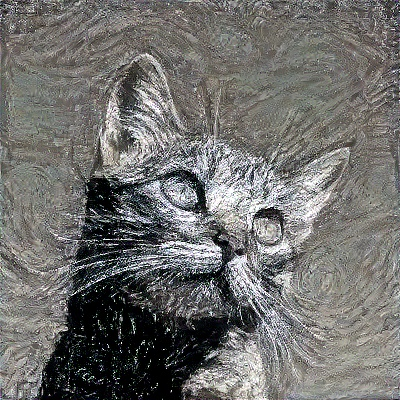
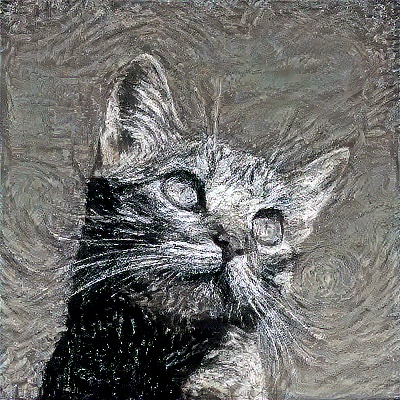
Finished YUV pre-processing for style representation

diff --git a/NST.py b/NST.py
@@ -17,6 +17,7 @@ def load_image(img_path,target_shape="None"):
     if not os.path.exists(img_path):
         raise Exception(f'Path not found: {img_path}')
     img = cv.imread(img_path)[:, :, ::-1]                   # convert BGR to RGB when reading
+    cv.imwrite('data/output-images/output.jpg', img)
     if target_shape is not None:
         if isinstance(target_shape, int) and target_shape != -1:
             current_height, current_width = img.shape[:2]
@@ -41,48 +42,46 @@ def prepare_img(img_path, target_shape, device):
     img = transform(img).to(device).unsqueeze(0)
     return img
 
-def rgb2yuv(rgb_img):
-    # rgb2yuv_filter = torch.tensor(
-    #     [[[[0.299, -0.169, 0.499],
-    #        [0.587, -0.331, -0.418],
-    #        [0.114, 0.499, -0.0813]]]])
-    rgb2yuv_filter = torch.tensor(
-        [[[[0.299, 0.587, 0.114],
-           [-0.169, -0.331, 0.499],
-           [0.499, -0.418, -0.0813]]]]).reshape(3, 3, 1, 1)
-    rgb2yuv_bias = torch.tensor([0., 0.5, 0.5])
+def prepare_style_img(style_img_path, content_img_path, device, target_shape="None"):
+    if not os.path.exists(style_img_path):
+        raise Exception(f'Path for style image not found: {style_img_path}')
+    if not os.path.exists(style_img_path):
+        raise Exception(f'Path for content image not found: {content_img_path}')
+    img = cv.imread(style_img_path)[:, :, ::-1]  # convert BGR to RGB when reading
+    content_img = cv.imread(content_img_path)[:, :, ::-1]
+    img = cv.resize(img, content_img.shape[1::-1])
 
-    temp = torch.nn.functional.conv2d(rgb_img, rgb2yuv_filter, bias=rgb2yuv_bias)
-    return temp
+    # YUV handling
+    style_yuv = cv.cvtColor(img, cv.COLOR_RGB2YUV)
+    content_yuv = cv.cvtColor(content_img, cv.COLOR_RGB2YUV)
 
-def yuv2rgb(yuv_img):
-    yuv_img = torch.mul(yuv_img, 255)
-    yuv2rgb_filter = torch.tensor(
-        [[[[1., 0., 1.40199995],
-           [1., -0.34413999, -0.71414],
-           [1., 1.77199996, 0.]]]]).reshape(3, 3, 1, 1)
-    yuv2rgb_bias = torch.tensor([-179.45599365, 135.45983887, -226.81599426])
+    combined_yuv = style_yuv.copy()
+    combined_yuv[:,:,1] = content_yuv[:,:,1]
+    combined_yuv[:,:,2] = content_yuv[:,:,2]
+    img = cv.cvtColor(combined_yuv, cv.COLOR_YUV2RGB)
 
-    temp = torch.nn.functional.conv2d(yuv_img, yuv2rgb_filter, bias=yuv2rgb_bias)
-    temp = torch.maximum(temp, tf.zeros(temp.get_shape(), dtype=torch.float32))
-    temp = torch.minimum(temp, torch.mul(torch.ones(temp.get_shape(), dtype=torch.float32), 255))
-    temp = torch.div(temp, 255)
-    return temp
+    # cv.imwrite('data/output-images/output.jpg', img)
 
-def prepare_style_image(style_img, content_img):
-    grayscale2rgb = transforms.Lambda(lambda x: x.repeat(3, 1, 1) if x.size(0)==1 else x)
+    # Load image handling
+    if target_shape is not None:
+        if isinstance(target_shape, int) and target_shape != -1:
+            current_height, current_width = img.shape[:2]
+            new_height = target_shape
+            new_width = int(current_width * (new_height / current_height))
+            img = cv.resize(img, (new_width, new_height), interpolation=cv.INTER_CUBIC)
+        else:
+            img = cv.resize(img, (target_shape[1], target_shape[0]), interpolation=cv.INTER_CUBIC)
+    img = img.astype(np.float32)
+    img /= 255.0
 
-    style_grayscale = transforms.functional.rgb_to_grayscale(style_img)
-    style_grayscale_rgb = grayscale2rgb(style_grayscale) # grayscale -> rgb
-    style_grayscale_yuv = rgv2yuv(style_grayscale_rgb)
-
-    content_yuv = rgb2yuv(content_img)
-
-    combined_yuv = torch.cat((torch.split(style_grayscale_yuv, 3)[0], torch.split(original_yuv, 3)[1], torch.split(original_yuv, 3)[2]))
-    combined_rgb = yuv2rgb(combined_yuv)
-
-    return combined_rgb
-
+    # Normalize
+    transform = transforms.Compose([
+        transforms.ToTensor(),
+        transforms.Lambda(lambda x: x.mul(255)),
+        transforms.Normalize(mean=IMAGENET_MEAN_255, std=IMAGENET_STD_NEUTRAL)])
+    img = transform(img).to(device).unsqueeze(0)
+    
+    return img
 
 def save_image(img, img_path):
     if len(img.shape) == 2:
@@ -117,7 +116,6 @@ def save_and_maybe_display(optimizing_img, dump_path, config, img_id, num_of_ite
         dump_img += np.array(IMAGENET_MEAN_255).reshape((1, 1, 3))
         dump_img = np.clip(dump_img, 0, 255).astype('uint8')
         cv.imwrite(os.path.join(dump_path, out_img_name), dump_img[:, :, ::-1])
-    
 
 def prepare_model(device):
     '''
@@ -191,7 +189,8 @@ def neural_style_transfer(config):
     os.makedirs(dump_path, exist_ok=True)
     device = torch.device("cuda" if torch.cuda.is_available() else "cpu")
     content_img = prepare_img(content_img_path, config['height'], device)
-    style_img = prepare_img(style_img_path, config['height'], device)
+    style_img = prepare_style_img(style_img_path, content_img_path, device, target_shape=config['height'])
+    # style_img = prepare_img(style_img_path, config['height'], device)
     
     init_img = content_img
     
@@ -224,8 +223,8 @@ def neural_style_transfer(config):
     return dump_path
 
 PATH = ''
-CONTENT_IMAGE = 'c1.jpg'
-STYLE_IMAGE = 's2_bw.jpg'
+CONTENT_IMAGE = 'c6.jpg'
+STYLE_IMAGE = 's2.jpg'
 
 default_resource_dir = os.path.join(PATH, 'data')
 content_images_dir = os.path.join(default_resource_dir, 'content-images')
